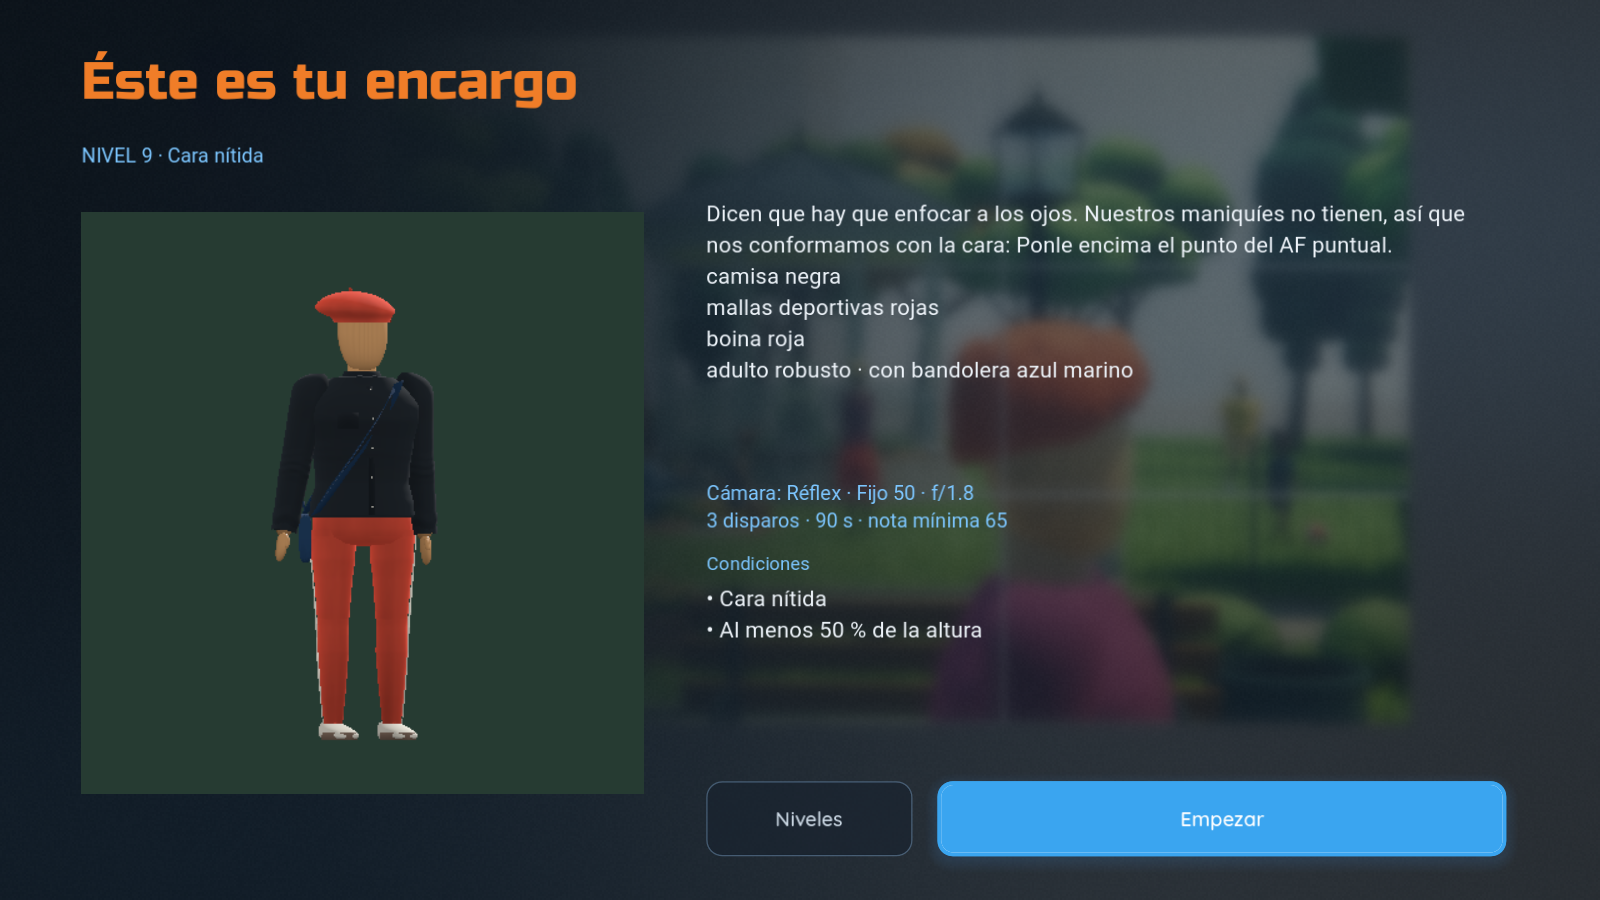
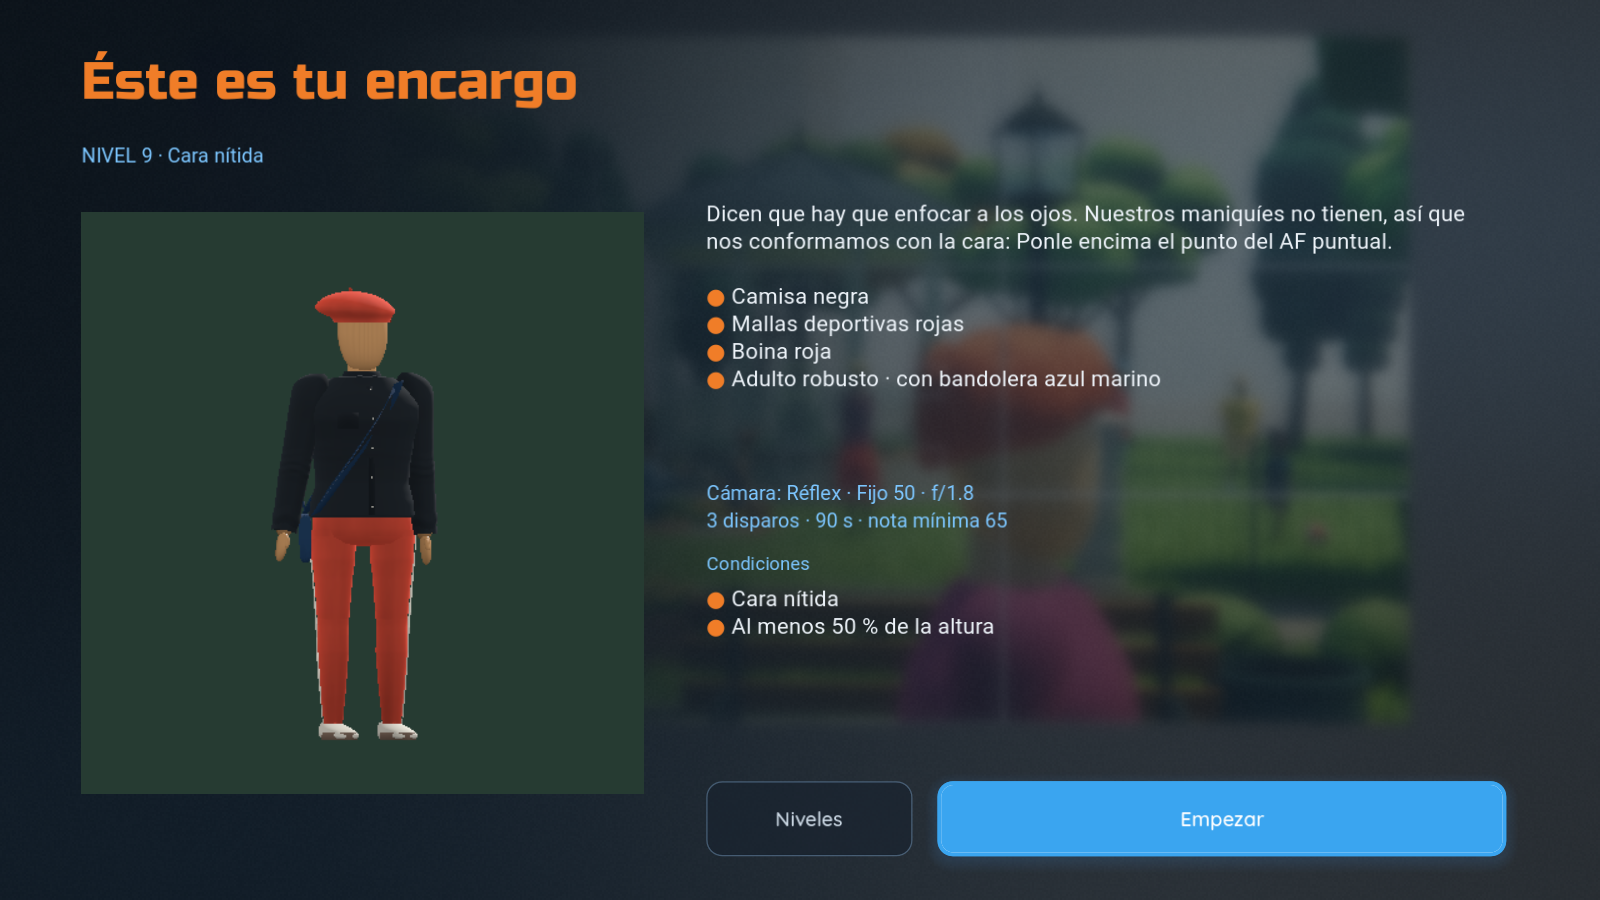
feat(interfaz): puntos naranjas y mayúscula inicial en los rasgos y condiciones del encargo, y en cada apartado del informe de la foto; docs: pendiente que barrido y estela se vean reales en el revelado

diff --git a/docs/futuro/README.md b/docs/futuro/README.md
@@ -23,7 +23,7 @@ Evaluación del estado actual de la lista de ideas y requisitos frente al códig
 | **Salto Gráfico: Ultra en Forward+, Blender y Parque del Mockup** | ✅ **Completado** (queda la optimización de su §6) | [17_SALTO_GRAFICO_ULTRA.md](17_SALTO_GRAFICO_ULTRA.md): `tools/blender/build_park_assets.py`, `tools/texturas/build_textures.py`, `scripts/park_assets.gd`, shaders `park_ground`, `park_water`, `park_spray`, `park_windows` y `park_grass`, `data/piezas_hd/`; capturas en `docs/evidencias/ultra/`. |
 | **Personajes y Ropa en Blender** | ✅ **Completado** | [18_PERSONAJES_BLENDER.md](18_PERSONAJES_BLENDER.md): `tools/blender/build_characters.py`, formas `skinned` con pesos suaves, `hides`, huesos secundarios con `SpringBoneSimulator3D`, falda simulada, pelucas; evidencias con `tools/capture_characters.gd`. |
 | **Vida en el Parque** (actividades, bancos, perro, palomas, figurantes, sonido, marcha sin temblequeo) | ✅ **Completado** | [19_VIDA_EN_EL_PARQUE.md](19_VIDA_EN_EL_PARQUE.md): `main.gd::walk_step()`, `plan_stop()`, `approach_bench()`, `gait.gd::sit()` y `activity()`, `person.gd::make_prop()`, `scripts/dog.gd`, `scripts/pigeons.gd`, `scripts/extras.gd`, `scripts/ambience.gd`, `tools/audio/build_ambience.py`; pruebas `tests/test_crowd.gd` y `tests/test_park_life.gd`; hoja `10_actividades`. |
-| **Barrido (*panning*)** | ✅ **Completado** (mecánica, nota, revelado, condición de arcade y seguimiento con teclas) | [11 §1](11_MECANICAS_BARRIDO_Y_DOF_REALTIME.md): `main.gd::track_camera_turn()`, `camera_omega` en la evidencia, `Photography.evaluate()` (`panning`, `background`), `develop.gdshader` (`pan`, `subject_box`); `tests/test_photography.gd`. |
+| **Barrido (*panning*)** | ✅ **Completado** (mecánica, nota, revelado, condición de arcade y seguimiento con teclas) · ⏳ **pendiente**: que barrido y estela se vean reales en la foto (el revelado arrastra toda la imagen; último apartado de 11) | [11 §1](11_MECANICAS_BARRIDO_Y_DOF_REALTIME.md): `main.gd::track_camera_turn()`, `camera_omega` en la evidencia, `Photography.evaluate()` (`panning`, `background`), `develop.gdshader` (`pan`, `subject_box`); `tests/test_photography.gd`. |
 | **Insignias de maestría** | ✅ **Completado** | [05 §3](05_DESAFIOS_Y_MODOS_JUEGO.md): `scripts/badges.gd`, `main.gd::show_badges()`, `tests/test_badges.gd`. |
 | **Álbum de fotos** | ✅ **Completado** | [22, «Álbum de fotos»](22_MENU_TUTORIAL_MANDO.md): `scripts/album.gd`, `main.gd::save_to_album()`, `show_album()`, `tests/test_album.gd`. |
 | **Sesión del 02-10-2026** (arranque, cielo, pradera y vida) | ✅ **Completado** | Arranque de 7,7 s a 3,4 s ([ESCENARIO §4](../ESCENARIO_Y_RENDIMIENTO.md), `-- --timing`); cielo propio `shaders/park_sky.gdshader` ([ESCENARIO §3.3](../ESCENARIO_Y_RENDIMIENTO.md)); palomas en la verja, perro pequeño, patos (`scripts/ducks.gd`), mesas de pícnic y fuente de beber con dos figurantes sentados ([19 §9](19_VIDA_EN_EL_PARQUE.md)); estilo de paso por persona ([15 P4](15_VARIEDAD_PROCEDURAL.md)); filtrado anisótropo ([23](23_GRAFICOS_PERSONALIZADOS.md)); pantalla de carga e icono ([20](20_INTERFAZ_CLARA.md)); vibración del mando ([22](22_MENU_TUTORIAL_MANDO.md)); falda sentada sin tiras y ruido del LCD sin trama. |

diff --git a/docs/futuro/11_MECANICAS_BARRIDO_Y_DOF_REALTIME.md b/docs/futuro/11_MECANICAS_BARRIDO_Y_DOF_REALTIME.md
@@ -89,3 +89,11 @@ En el simulador:
   2. Con $\omega_{\text{cámara}} = \omega_{\text{sujeto}}$ a 1/30 s el sujeto queda nítido y el fondo estriado; con la cámara quieta, el sujeto queda movido.
   3. Mover la cámara durante una exposición larga sin sujeto al que seguir penaliza el pulso (hoy no ocurre).
   4. La previsualización DoF no cambia la puntuación: activarla o no da la misma nota.
+
+## Pendiente: que el barrido y la estela se vean reales en la foto (usuario, 06-10-2026)
+
+`shaders/develop.gdshader` arrastra **toda la imagen** con un único vector (`motion`), así que un barrido bien hecho y una estela (nivel 27 del arcade) se dibujan igual: todo el fotograma emborronado en horizontal. El informe sí los distingue; la imagen, no. Lo que falta:
+
+- **Barrido**: el sujeto seguido debe quedar nítido y solo el fondo arrastrado (hoy se compensa en parte con `drag_sign` y el fondo arrastrado, pero sin separar sujeto y fondo píxel a píxel).
+- **Estela**: al revés, el fondo nítido y solo el corredor arrastrado, con su rastro.
+- Hace falta una máscara del sujeto (o un búfer de velocidades por píxel) en la captura de la foto, y que el revelado aplique el arrastre según esa máscara. Mismo criterio en Vulkan y en OpenGL, y sin cambiar la nota (`tests/test_photography.gd`, `tests/test_finders.gd`).

diff --git a/docs/futuro/20_INTERFAZ_CLARA.md b/docs/futuro/20_INTERFAZ_CLARA.md
@@ -66,3 +66,7 @@ La identidad de **PhotoHacks** se articula en torno al naranja cálido de la mar
 | **Superficie Oscura** (`SURFACE`) | `#17212E` | Fondo base de tarjetas y paneles oscuros (`Color(.09, .13, .18)`). |
 | **Cristal Oscuro Fondo** (`GLASS_TINT`) | `#0D131A` | Tinte del cristal esmerilado en modo oscuro (`Color(.05, .075, .10)`). |
 
+
+## Listas con punto naranja (06-10-2026, usuario)
+
+En el encargo, los rasgos del objetivo y las condiciones del nivel van uno por línea, con un punto naranja delante y mayúscula inicial; en el resultado, cada apartado del informe (Enfoque, Exposición, Movimiento, Oclusión, Encuadre) lleva su punto naranja y el nombre con la nota en negrita. `main.gd::rich_label()`, `dotted()` y `dot()` (un `RichTextLabel`; `plain_bb()` protege los corchetes de los textos).
